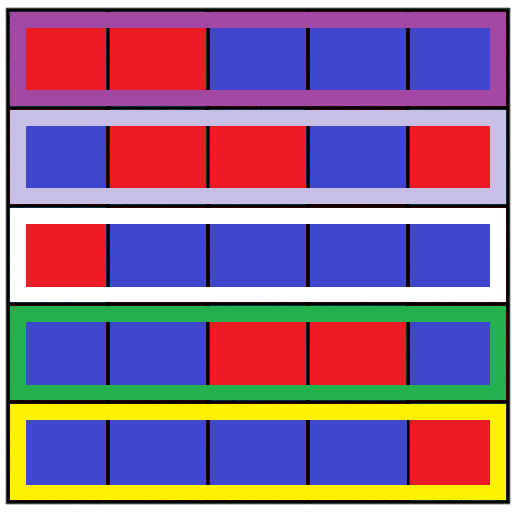
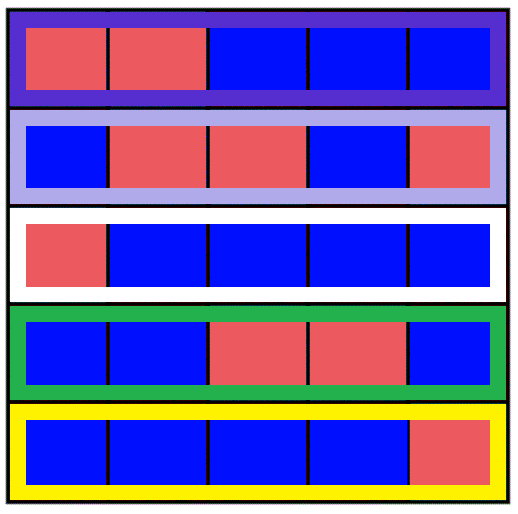
This updates the colors in the Newfigure images so that when printing the images on a monochromatic printer you will be able to see the the different regions.

diff --git a/NewRedistricting.md b/NewRedistricting.md
@@ -16,7 +16,7 @@ If the number of voters in a district is even, and the number of voters associat
 The program is given a specified region a two-dimensional grid of locations (using row and column indices).  Each location represents the voters residing at that location.  Each voter is identified by their party affiliation.  An example of such a region is given here.
 In this example the region is a 5x5 grid of locations. There is exactly one voter associated with each location. Each voter is affiliated with either Party A or Party B. Voters associated with Party A occupy grid locations (0, 0), (0, 1), (1, 1), (1, 2), (1, 4), (2, 0), (3, 2), (3, 3), and (4, 4). All other locations are occupied by voters associated with Party B.
 
-![5x5 Region of Locations matching the textual description](images/NewfigureA1.png)
+![5x5 Region of Locations matching the textual description](images/NewfigureA.png)
  
 ## Districts
 The program must divide the region into a specified number of districts. Each district must contain the same number of voters as all other districts within practical constraints (e.g., allows off-by-one where the number of voters is not evenly divisible by the number of districts).
@@ -24,7 +24,7 @@ A district can be represented as a set of grid coordinates.  For example { (0,0,
 Districts must be non-overlapping and contiguous. That is, each location within the same district must share an edge with at least one other location in that district.
 For example, if the number of districts specified for the example region is 5, one such outcome would simply divide the grid into rows.  In this case, each district is made up of the set of locations    { (i, 0), (i, 1), (i, 2), (i, 3), (i, 4) }, where i specifies a row index 0 ≤ i < 5. 
  
-![Example Region with Districts by Row](images/NewfigureB1.png)
+![Example Region with Districts by Row](images/NewfigureB.png)
  
  
 ## Favored Party
@@ -43,7 +43,7 @@ Using the example region, the program was asked to create five districts. It pro
 {(1, 4), (2, 4), (3, 3), (3, 4), (4, 4)} 
 {(3, 1), (4, 0), (4, 1), (4, 2), (4, 3)}
  
- ![Gerrymandered grid from Run A - Preference to Party A (3 of 5 districts)](images/NewfigureC1.png)  
+ ![Gerrymandered grid from Run A - Preference to Party A (3 of 5 districts)](images/NewfigureC.png)  
  
  Preference to Party A (3 of 5 districts)
  
@@ -52,7 +52,7 @@ Using the example region, the program was asked to create five districts. It pro
 {(0, i), (1, i), (2, i), (3, i), (4, i)} where 
 i specifies a column index 0 ≤ i < 5.
 
-![Gerrymandered Grid for Run B - Preference to Party B (5 of 5 districts)](images/NewfigureD1.png) 
+![Gerrymandered Grid for Run B - Preference to Party B (5 of 5 districts)](images/NewfigureD.png) 
 
 Preference to Party B (5 of 5 districts)
  
